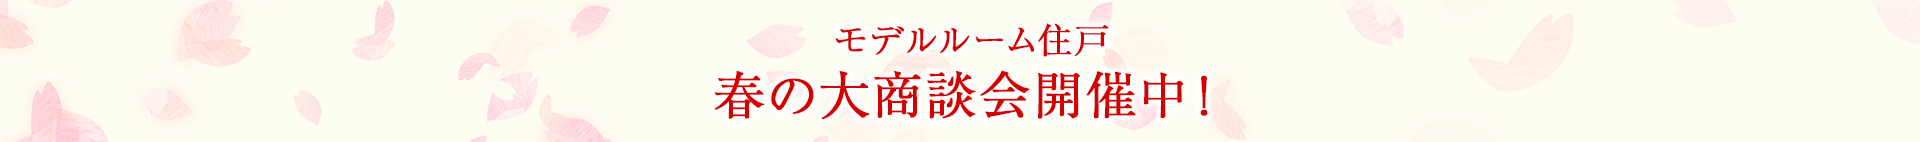
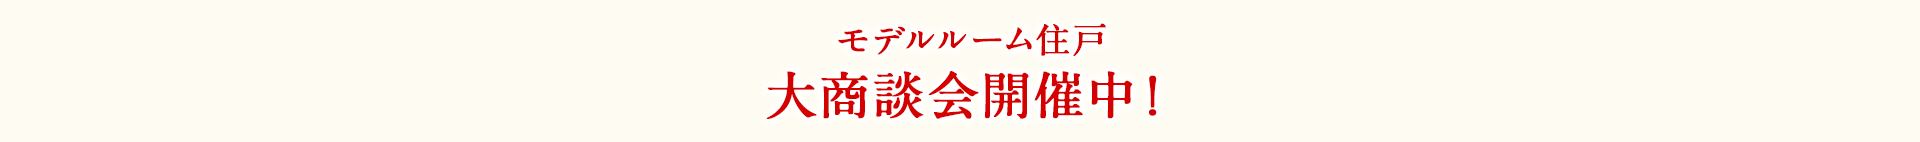
No. 119800 業務依頼 （プレシス中野哲学堂パークフロント　公式ホームページ修正依頼）-front end

diff --git a/prostyle-residence/www/nakanotetsugakudo/index.php b/prostyle-residence/www/nakanotetsugakudo/index.php
@@ -156,7 +156,7 @@
 	      						</ul>
 	      						<div class="box_sumitomo">
 	      							<p class="content">
-		      							<span class="text-up">モデルルーム住戸 春の大商談会開催中！【完全予約制】</span><br>
+		      							<span class="text-up">モデルルーム住戸 大商談会開催中！【完全予約制】</span><br>
 		      							<br>
 										※マンションギャラリーには係員が常駐しておりません。必ずご予約のうえ、ご来場ください。<br>WEB来場予約は<a class="link_sumotimo" href="/nakanotetsugakudo/contact/reservation/">こちら</a>から<br>
 									</p>

diff --git a/prostyle-residence/www/nakanotetsugakudo/outline.php b/prostyle-residence/www/nakanotetsugakudo/outline.php
@@ -273,7 +273,7 @@
 					      			</tr>
 					      		</table>
 
-					      		<p class="mb-5 text-center">更新日<span>（4月15日）</span>・更新予定日<span>（5月7日）</span></p>
+					      		<p class="mb-5 text-center">更新日<span>（5月7日）</span>・更新予定日<span>（5月20日）</span></p>
 
 	      					</div>
 	      				</div>
